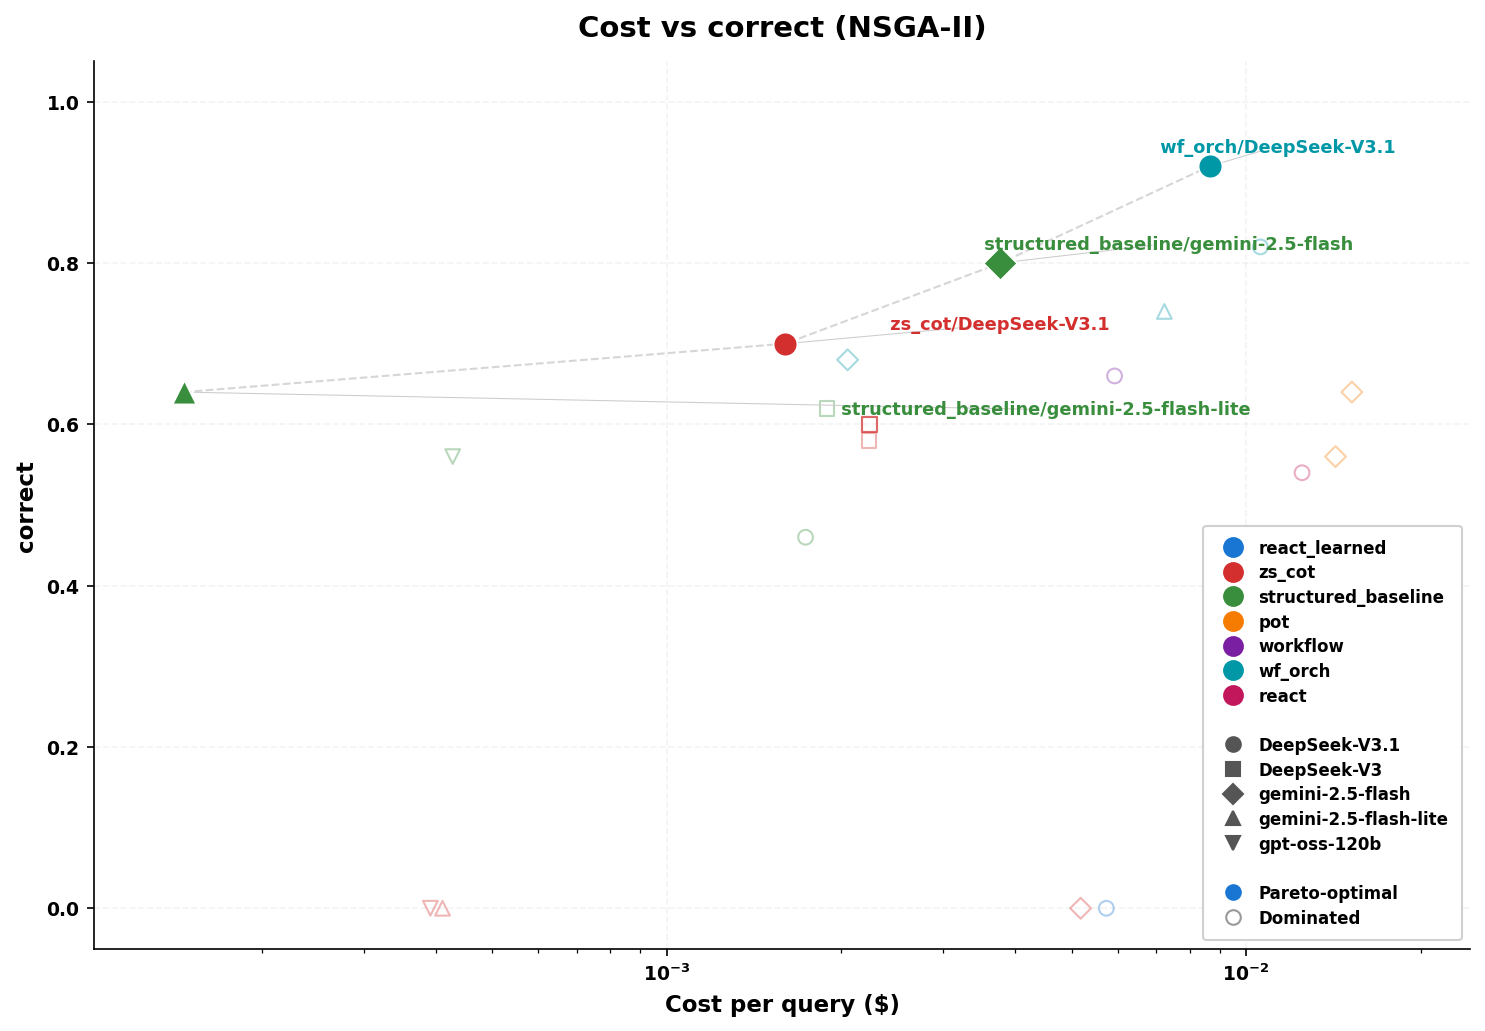
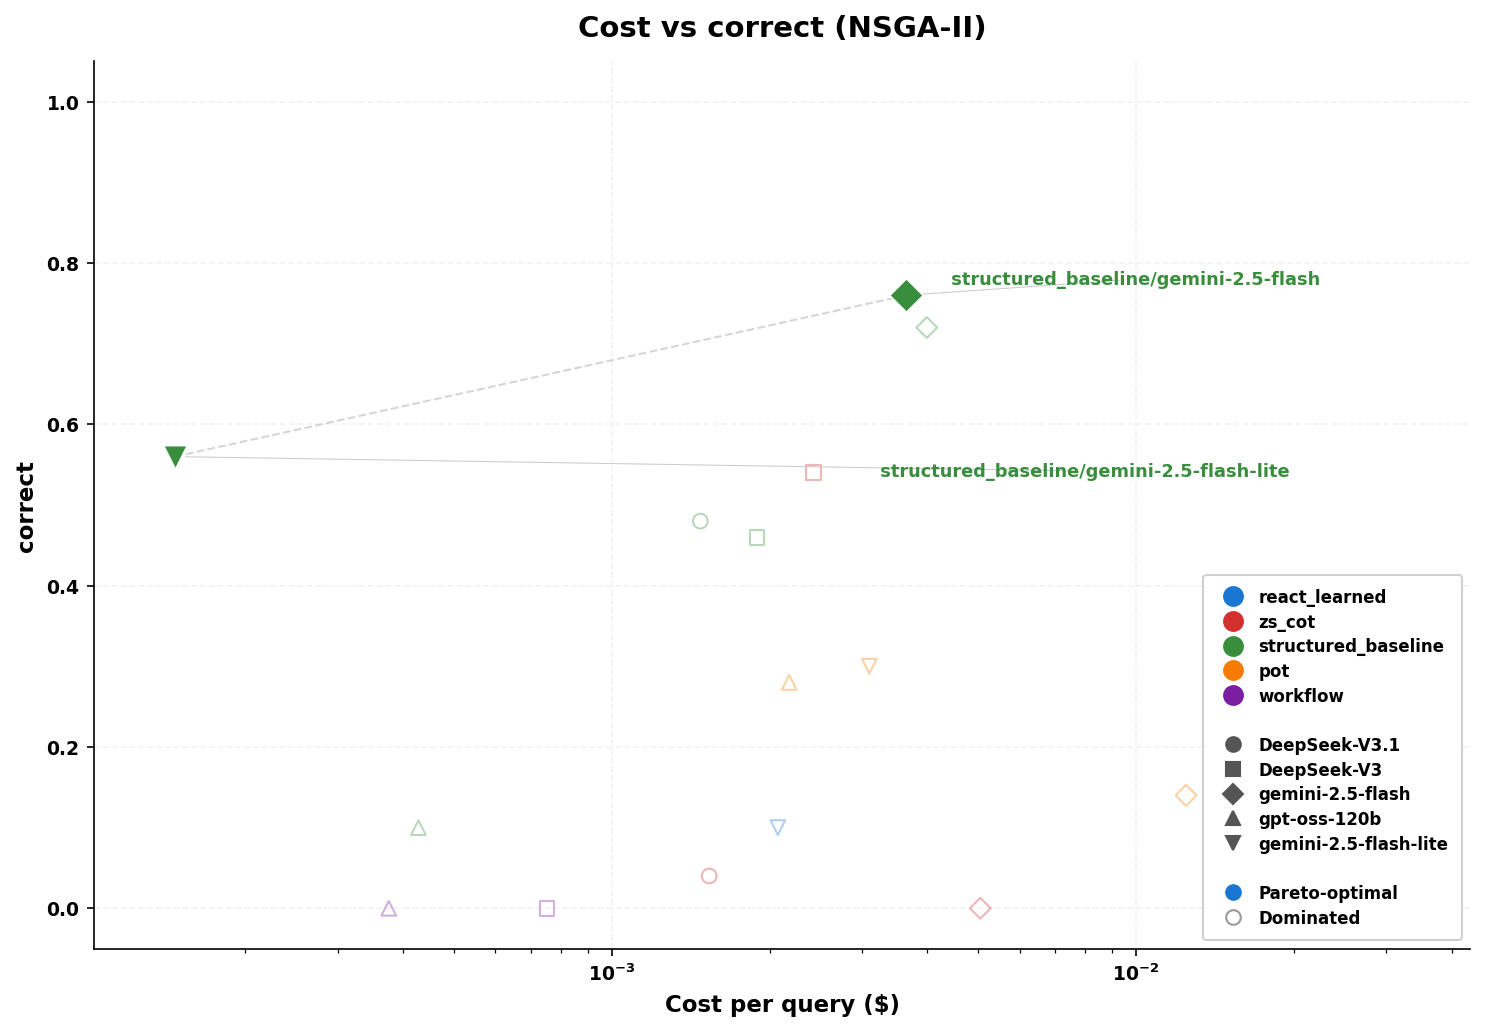
musr_murder: NSGA-II sweep with react_learned + wf_orch (RQ1+RQ2+RQ4)

diff --git a/benchmarks/COMMON/optimize-results/musr_murder/REPRODUCE.md b/benchmarks/COMMON/optimize-results/musr_murder/REPRODUCE.md
@@ -1,6 +1,6 @@
 # musr_murder NSGA-II sweep snapshot
 
-Frozen on 2026-05-03 from commit 509b6402.
+Frozen on 2026-05-04 from commit dccdcac8.
 
 ## Command
 
@@ -23,4 +23,4 @@ dotlist expansions per method.
 - `nsga2_summary.csv` — one row per evaluated config
 - `nsga2_generations.csv` — per-generation convergence stats
 - `nsga2.png` — Pareto plot (cost vs correctness)
-- `nsga_runs/<TS>.nsga_NNN/` — per-config rollout dirs (53 total)
+- `nsga_runs/<TS>.nsga_NNN/` — per-config rollout dirs (0 total)